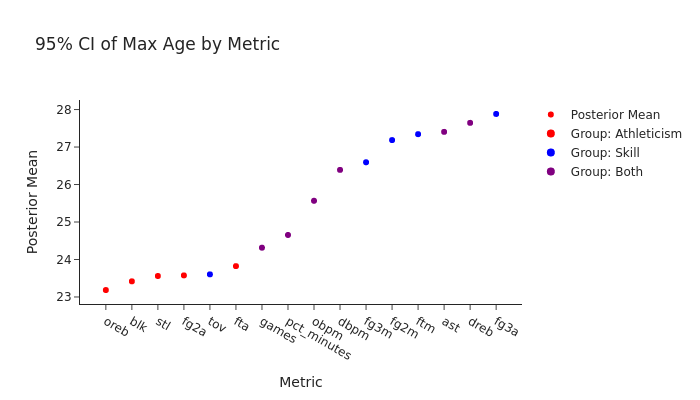
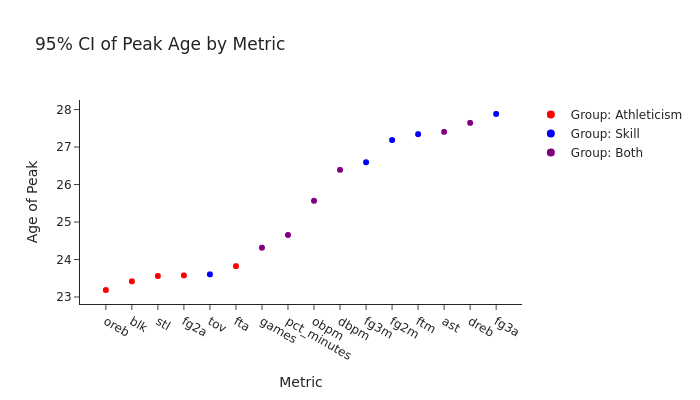
fixed sampling of curves, and some labels

diff --git a/visualization/visualization.py b/visualization/visualization.py
@@ -55,15 +55,6 @@ def plot_posterior_predictive_career_trajectory( player_index, metrics: list[str
             showlegend=False,
         ), row = row, col=col)
 
-    # fig.add_trace(go.Scatter(
-    #         name='Posterior Predictive 95% CI',
-    #         x=[None],  # or just `x=[x[0]]`, `y=[hdi[0, 1]]`
-    #         y=[None],
-    #         mode='lines',
-    #         line=dict(color='rgba(68, 68, 68, 1)', width=2),
-    #         showlegend=False,
-    #         visible='legendonly'  # <-- key line
-    #     ), row=1, col=1)
     fig.update_layout({'width':700, 'height': 700,
                             'showlegend':True, 'hovermode': 'closest',
                             'legend': {
@@ -76,16 +67,16 @@ def plot_posterior_predictive_career_trajectory( player_index, metrics: list[str
 
 def plot_prior_mean_trajectory(prior_mean_samples, thin = .1):
     scale = 1.5
+    prior_mean_samples -= prior_mean_samples[..., 0][..., None]
     num_samples = prior_mean_samples.shape[0]
-    num_metrics = prior_mean_samples.shape[1]
-    thin_val = int(thin * num_samples)
-    indices = np.random.choice(num_samples, size=thin_val, replace=False)
+    num_samples_thin = int(thin * num_samples)
+    all_indices = np.arange(num_samples)
+    sampled_indices = np.random.choice(all_indices, size=num_samples_thin, replace=False)
     fig = make_subplots(rows = 1, cols=1)
     x = list(range(18,39))
-    for metric_index in range(num_metrics):
-        for sample_index in indices:
-            fig.add_trace(go.Scatter(x = x, y = prior_mean_samples[sample_index, metric_index], mode = "lines", line_color = "grey", opacity=.3, showlegend=False),
-                                row = 1, col = 1)
+    for sample_index in sampled_indices:
+        fig.add_trace(go.Scatter(x = x, y = prior_mean_samples[sample_index], mode = "lines", line_color = "grey", opacity=.3, showlegend=False),
+                            row = 1, col = 1)
     fig.update_layout({'width':650, 'height': 650,
                             'showlegend':False, 'hovermode': 'closest',
                             'legend': {

diff --git a/main.py b/main.py
@@ -394,8 +394,9 @@ if __name__ == "__main__":
             fig = plot_prior_predictive_career_trajectory(metrics, metric_output, exposure_list, mu[:, :, jnp.array(0), :].squeeze(), prior_variance_samples=jnp.transpose(posterior_variance_samples), prior_dispersion_samples = posterior_dispersion_samples)
             fig.update_layout(title = "Prior Predictive Curves")
             fig.write_image(f"model_output/model_plots/player_plots/predictions/{file_pre}/{model_name}.png", format = "png")
-
-            fig = plot_prior_mean_trajectory(mu[:, :, jnp.array(0), :])
+            
+            mu_filtered = mu[((cmax - boundary_r)[:, 0, :] >=2) & ((cmax - boundary_l)[:, 0, :] >=2), 0, :]
+            fig = plot_prior_mean_trajectory(np.array(mu_filtered))
             fig.update_layout(title = "Prior Mean Curves")
             fig.write_image(f"model_output/model_plots/player_plots/predictions/{file_pre}/{model_name}_mean_curve.png", format = "png")
 

diff --git a/peak_distribution_plot.py b/peak_distribution_plot.py
@@ -294,6 +294,7 @@ if __name__ == "__main__":
         ),
         mode='markers',
         marker=dict(color = sorted_colors, size=6),
+        showlegend=False,
         name='Posterior Mean'
         ))
     
@@ -309,8 +310,8 @@ if __name__ == "__main__":
         ))
 
     fig.update_layout(
-    title='95% CI of Max Age by Metric',
-    yaxis_title='Posterior Mean',
+    title='95% CI of Peak Age by Metric',
+    yaxis_title='Age of Peak',
     xaxis_title='Metric',
     height=25 * len(metrics),  # autoscale height for readability
     template='simple_white'

diff --git a/model/models.py b/model/models.py
@@ -569,7 +569,7 @@ class ConvexMaxBoundaryTVRFLVM(ConvexTVRFLVM):
         self.prior["sigma_boundary_r"] = InverseGamma(2.0, 1.0)
         self.prior["sigma_boundary_l"] = InverseGamma(2.0, 1.0)
         self.prior["sigma_t"] = InverseGamma(2.0, .003)
-        self.prior["alpha"] = InverseGamma(100.0, .0003)
+        self.prior["alpha"] = InverseGamma(100.0, 3)
         self.prior["t_max_raw"] = Normal()
         self.prior["c_max"] = Normal()
         self.prior["boundary_l"] = Normal()
